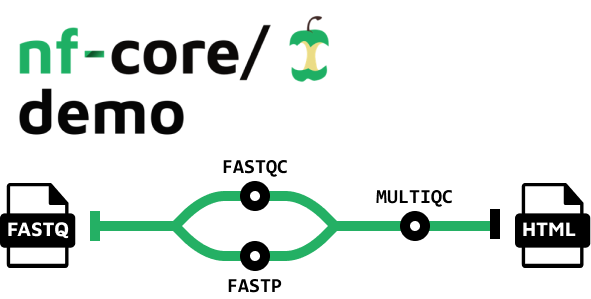
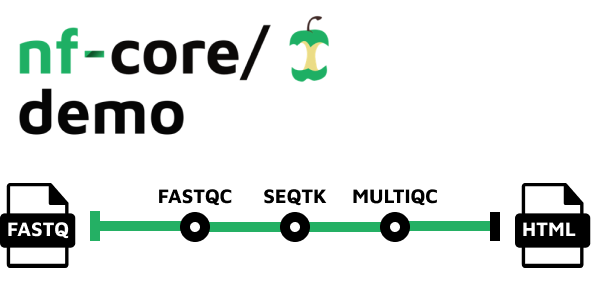
Update images

diff --git a/README.md b/README.md
@@ -24,7 +24,7 @@
 ![nf-core/demo metro map](docs/images/nf-core-demo-subway.png)
 
 1. Read QC ([`FASTQC`](https://www.bioinformatics.babraham.ac.uk/projects/fastqc/))
-2. Adapter and quality trimming ([`FASTP`](https://github.com/OpenGene/fastp))
+2. Adapter and quality trimming ([`SEQTK_TRIM`](https://github.com/lh3/seqtk))
 3. Present QC for raw reads ([`MULTIQC`](http://multiqc.info/))
 
 ## Usage
